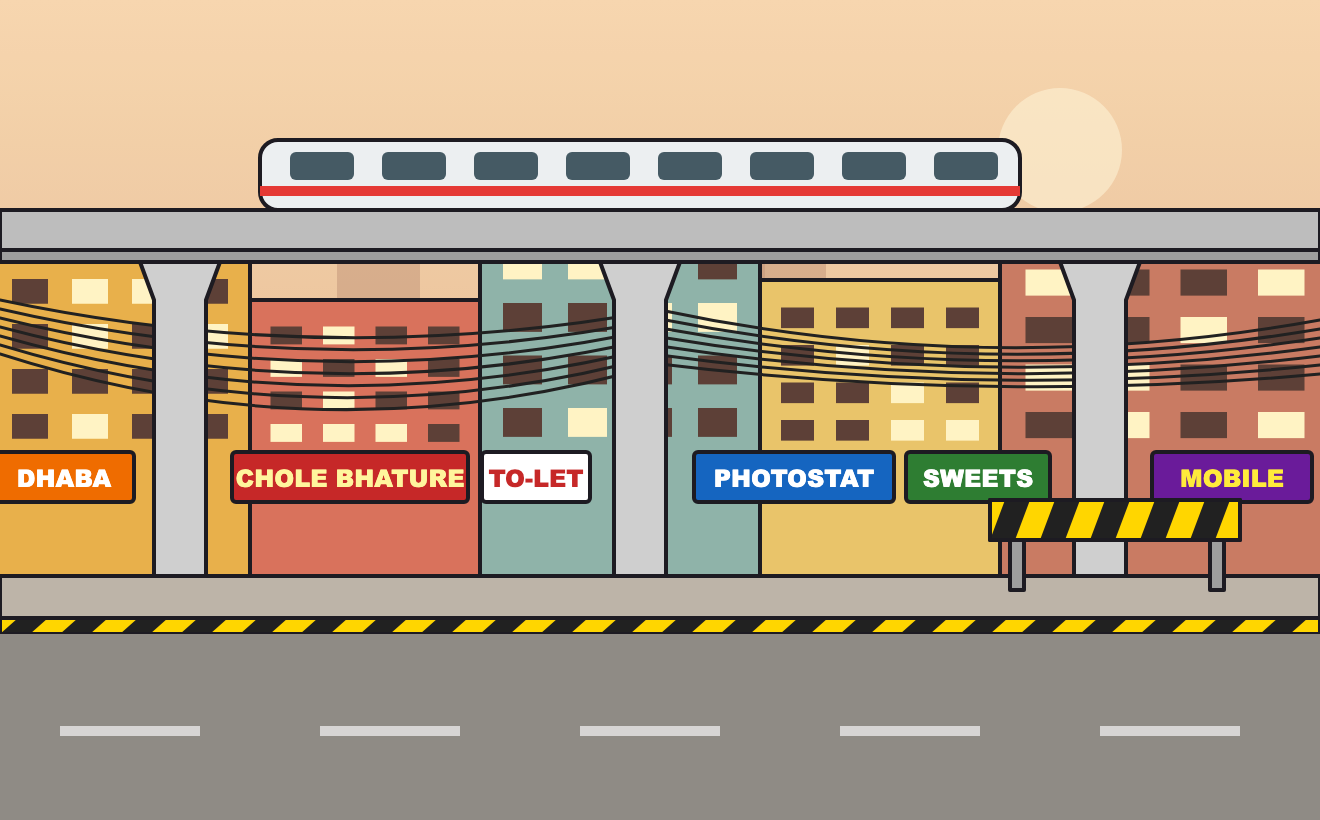
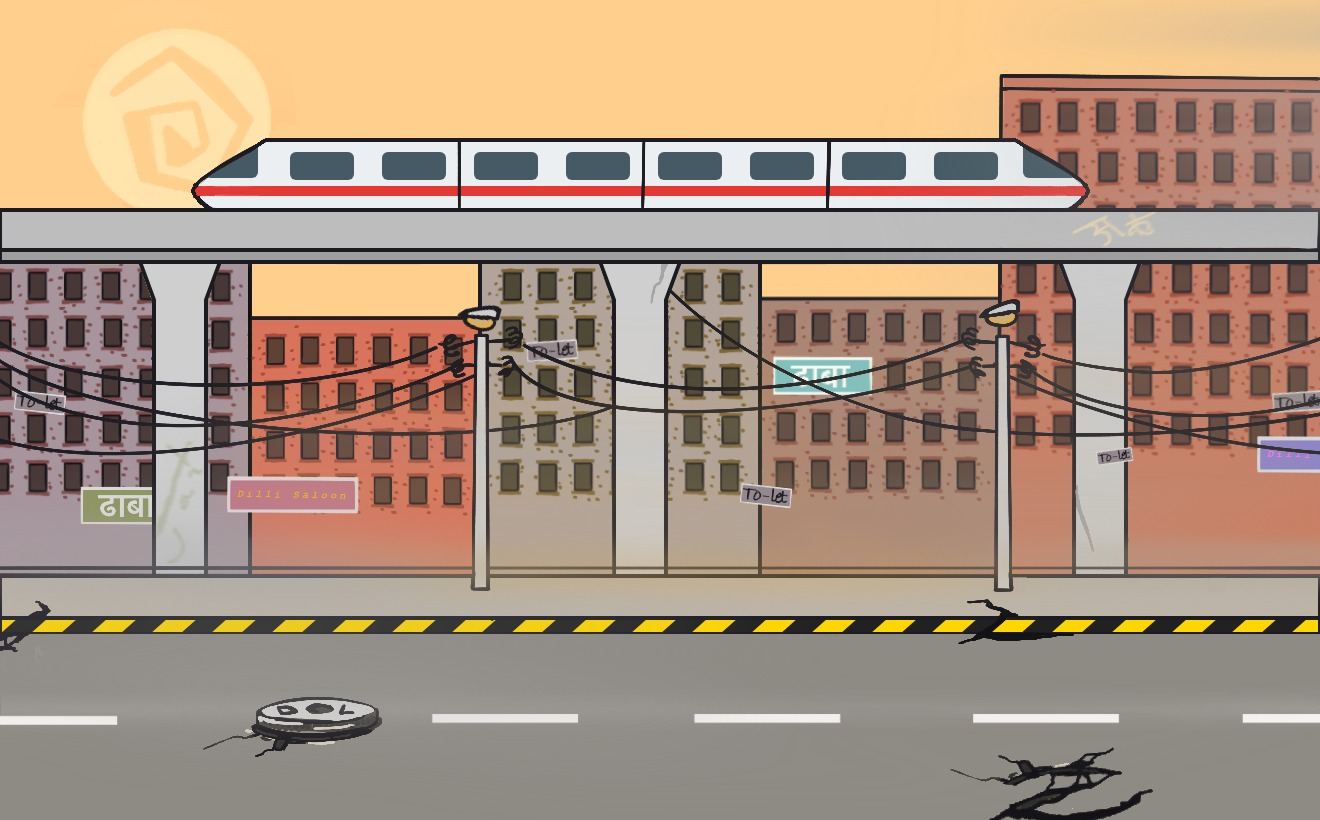
Jaideep's Dilli background; smog haze over the maps
- Backgrounds/dilli.png: Jaideep's hand-drawn Dilli street (1320x820), used on
  Days 1-4, the title and the sticker sheet.
- A drifting smog haze (UI/smog.png) over the border map, the phone Map and
  the zoomed map, to match the hazy look of the new art; markers stay on top.

diff --git a/Assets/_Game/Scripts/View/MapView.cs b/Assets/_Game/Scripts/View/MapView.cs
@@ -12,6 +12,19 @@ namespace KadakChai
     /// </summary>
     public static class MapView
     {
+        /// <summary>A drifting smog haze over a map image (matches the hazy Dilli background); markers drawn later stay on top.</summary>
+        public static void AddSmog(Transform map, float alpha = 0.8f)
+        {
+            var sprite = Art.UI("smog");
+            if (sprite == null) return;
+            var smog = UiKit.Panel(map, "Smog", new Color(1, 1, 1, alpha));
+            smog.sprite = sprite;
+            smog.raycastTarget = false;
+            smog.rectTransform.Fill(-40);   // a little larger than the map so the drift never shows an edge
+            var fx = smog.gameObject.AddComponent<TitleFx>();
+            fx.drift = 30f; fx.driftSpeed = 0.15f;
+        }
+
         const float MX = 40, MY = 300, MS = 1000; // where the map sits on the phone
 
         public static readonly Dictionary<string, Vector2> Cities = new()
@@ -46,6 +59,7 @@ namespace KadakChai
             map.sprite = Art.UI("map");
             map.preserveAspect = true;
             map.rectTransform.Place(MX, MY, MS, MS);
+            AddSmog(map.transform);
             if (map.sprite == null) // no art yet: plain blobs
             {
                 map.color = new Color(0.85f, 0.8f, 0.68f);

diff --git a/Assets/_Game/Scripts/View/PhoneView.cs b/Assets/_Game/Scripts/View/PhoneView.cs
@@ -490,6 +490,7 @@ namespace KadakChai
             map.sprite = Art.UI("map");
             map.preserveAspect = true;
             map.rectTransform.Place(mx, my, size, size, SW, ContentH);
+            MapView.AddSmog(map.transform);
             var tap = map.gameObject.AddComponent<Button>();
             tap.onClick.AddListener(OpenBigMap);
             var hint = UiKit.Label(p, "Hint", "Tap the map\nto zoom", 30, new Color(1, 1, 1, 0.8f), TextAnchor.LowerRight, FontStyle.Bold);
@@ -533,6 +534,7 @@ namespace KadakChai
             img.preserveAspect = true;
             img.raycastTarget = false;
             img.rectTransform.Fill();
+            MapView.AddSmog(img.transform);
             if (run != null && !run.Finished && MapView.Cities.TryGetValue(run.Day.zone, out var c))
             {
                 var m = UiKit.Panel(content, "Marker", Color.white);
